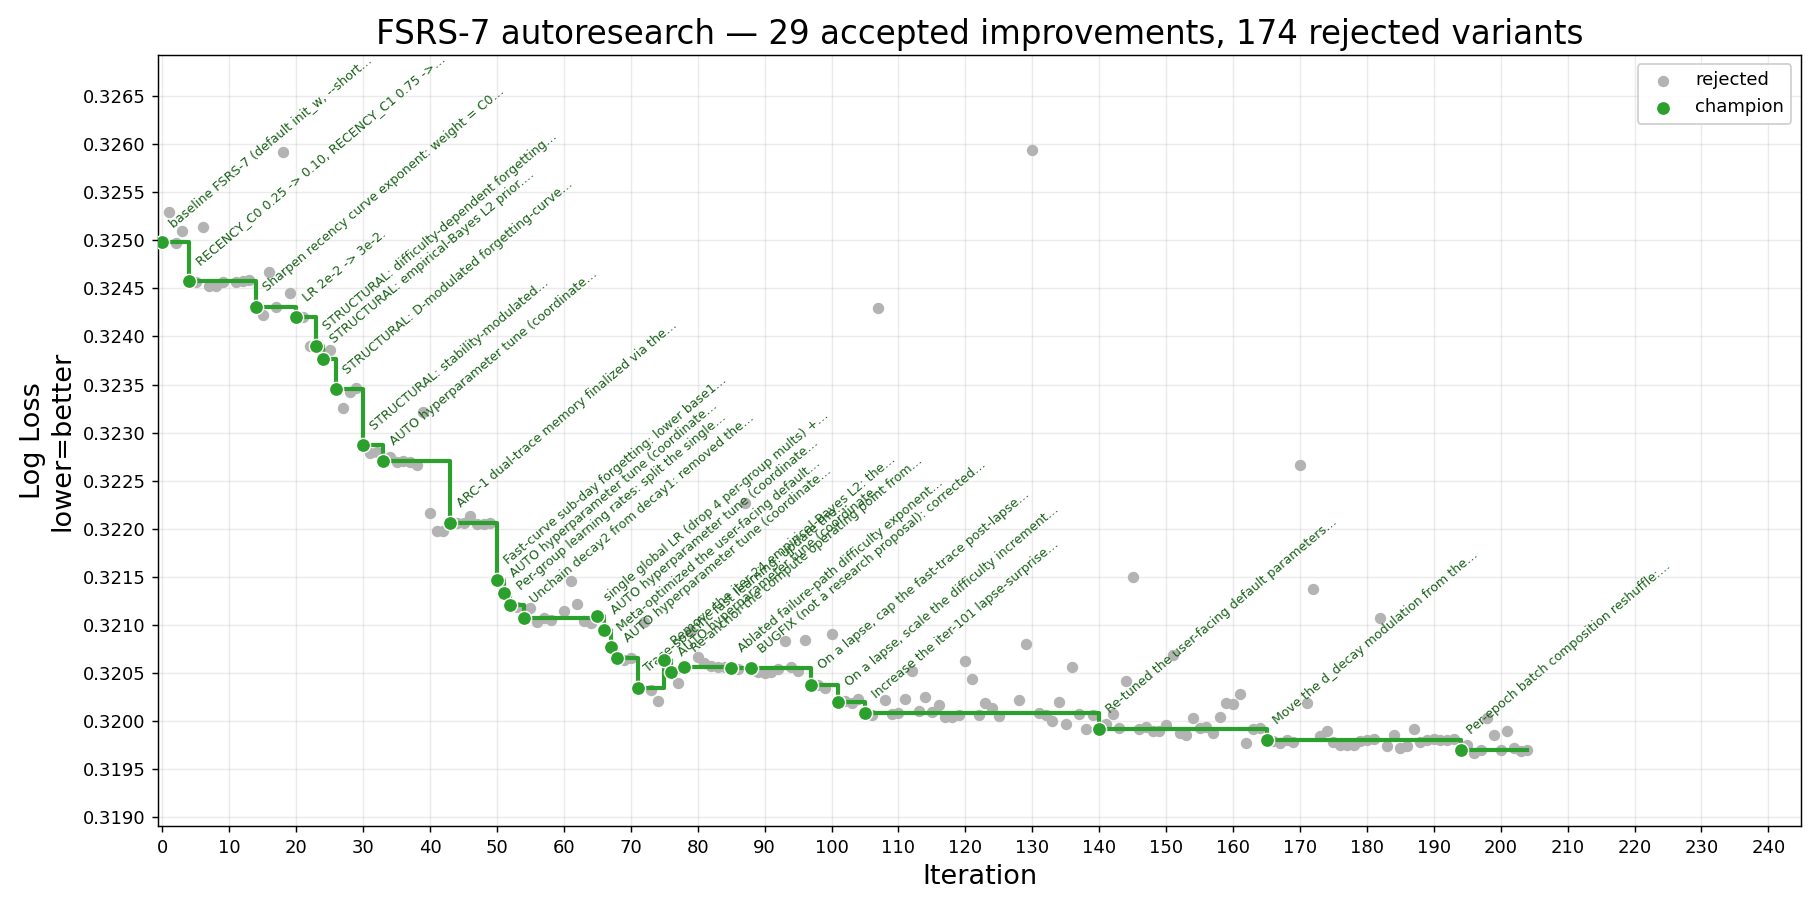
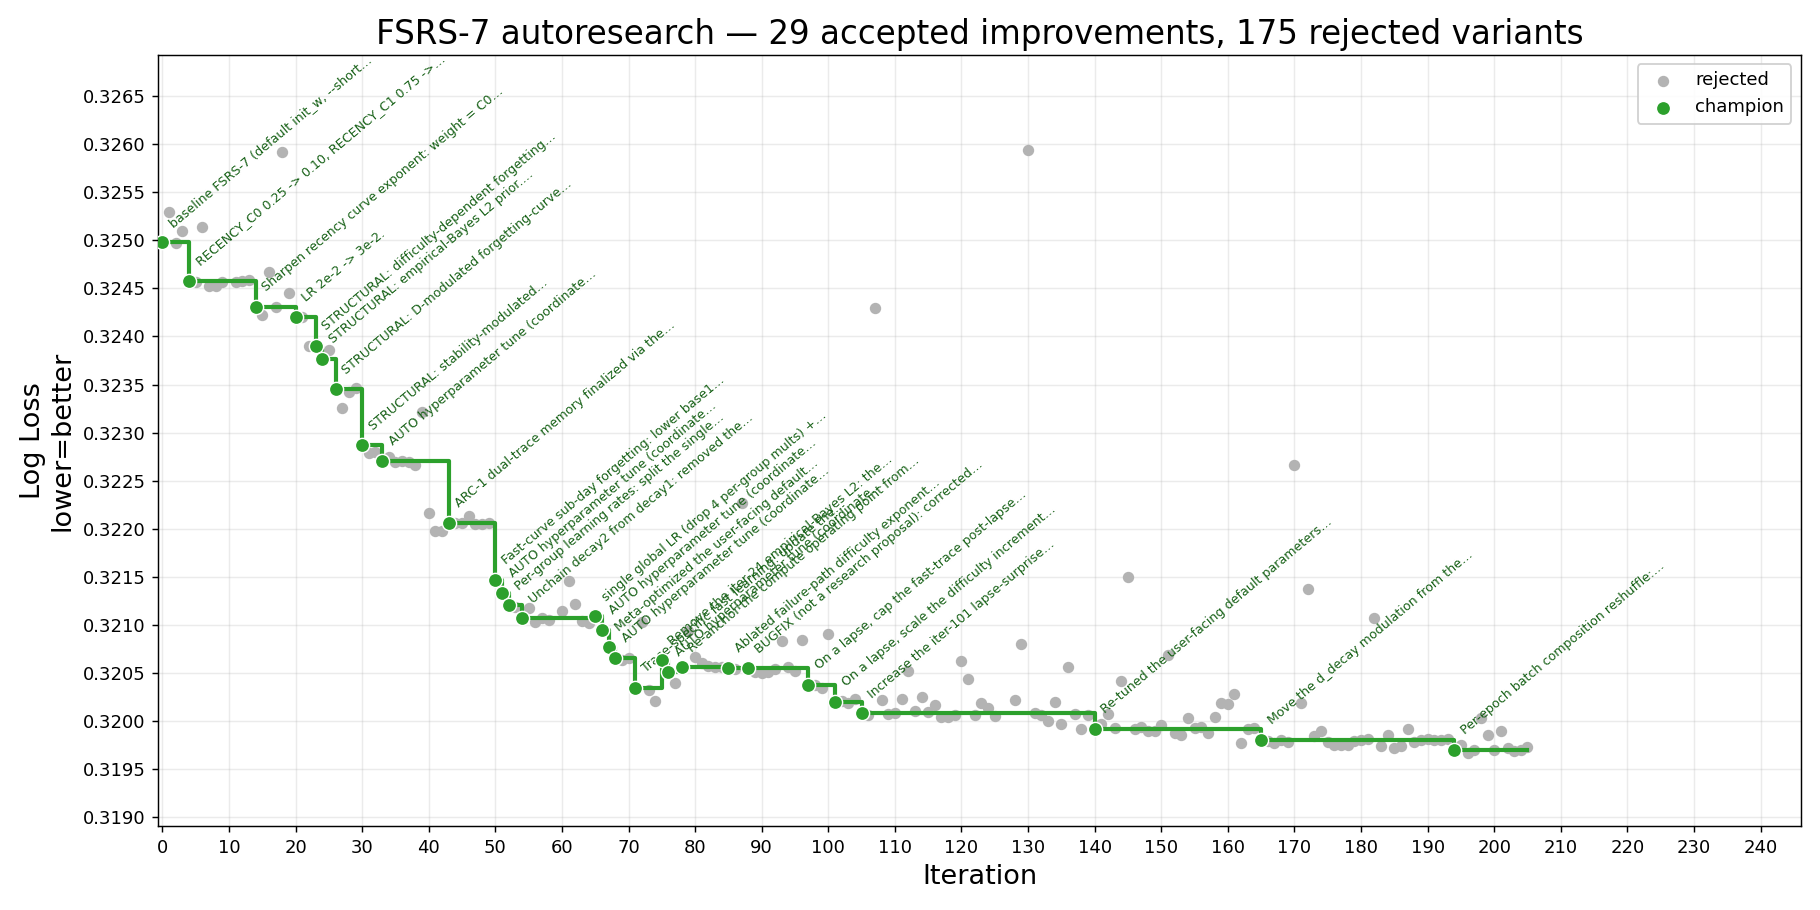
iter-205 rejected (-2.5e-5): trainable s x R interaction in growth; separable growth law validated
w[34] sinc_r_s_exp in [-0.15, 0.15]: long-trace growth R-coefficient
becomes sinc_r_mult * s_long^km. Mean-of-3 0.31972393 vs champion
0.31969851. Population used the freedom (range_frac 0.59, mostly
positive tilt) and it transferred negatively -- per-user interaction
freedom is noise amplification. With iter-154 (d x R) this closes
growth-law interaction terms as a direction. Four param-adding probes
(202/203/204/205) all land at the 1e-5 scale; single-param freedom in
the stability update is exhausted.

diff --git a/result/history.md b/result/history.md
@@ -1,6 +1,6 @@
 # FSRS-7 autoresearch — iteration history
 
-_204 record(s). Generated from `history.jsonl` — do not edit by hand._
+_205 record(s). Generated from `history.jsonl` — do not edit by hand._
 
 | # | Time (UTC) | Thresh. | LL before | LL after | Δ LL | Cx before | Cx after | Δ Cx % | Status | Summary |
 |--:|---|---:|---:|---:|---:|---:|---:|---:|---|---|
@@ -208,3 +208,4 @@ _204 record(s). Generated from `history.jsonl` — do not edit by hand._
 | 202 | 2026-06-11T12:09:29 | 0.0002 | 0.31970 | 0.31971 | -0.00001 | 18,442 | 18,442 | +0.00% | rejected | Add trainable w[34] sinc_s_off: long-trace success growth stability factor becomes powf(s_long + s_off, -sinc_s_exp). |
 | 203 | 2026-06-11T12:23:52 | 0.0002 | 0.31970 | 0.31969 | +0.00001 | 18,442 | 18,442 | +0.00% | rejected | Add trainable w[34] sinc_r_hard: on Hard reviews the growth R-coefficient becomes sinc_r_mult * sinc_r_hard, both traces. |
 | 204 | 2026-06-11T12:36:14 | 0.0002 | 0.31970 | 0.31970 | -0.00000 | 18,442 | 18,442 | +0.00% | rejected | Add trainable w[34] sinc_r_easy: on Easy reviews the growth R-coefficient becomes sinc_r_mult * sinc_r_easy, both traces. |
+| 205 | 2026-06-11T12:49:59 | 0.0002 | 0.31970 | 0.31972 | -0.00003 | 18,442 | 18,442 | +0.00% | rejected | Add trainable w[34] sinc_r_s_exp: long-trace growth R-coefficient becomes sinc_r_mult * s_long^sinc_r_s_exp (maturity-tilted spacing sensitivity). |
